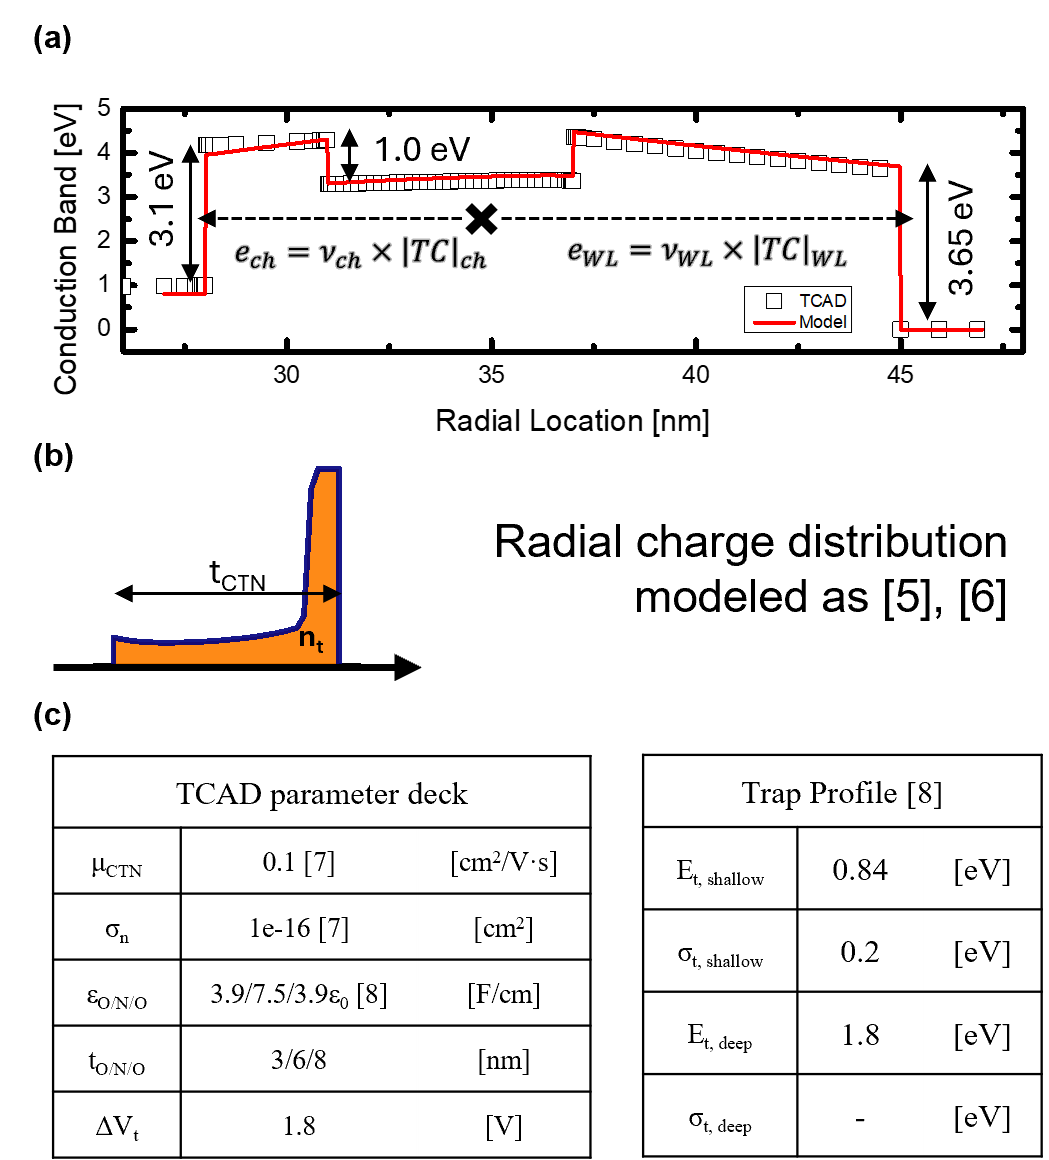
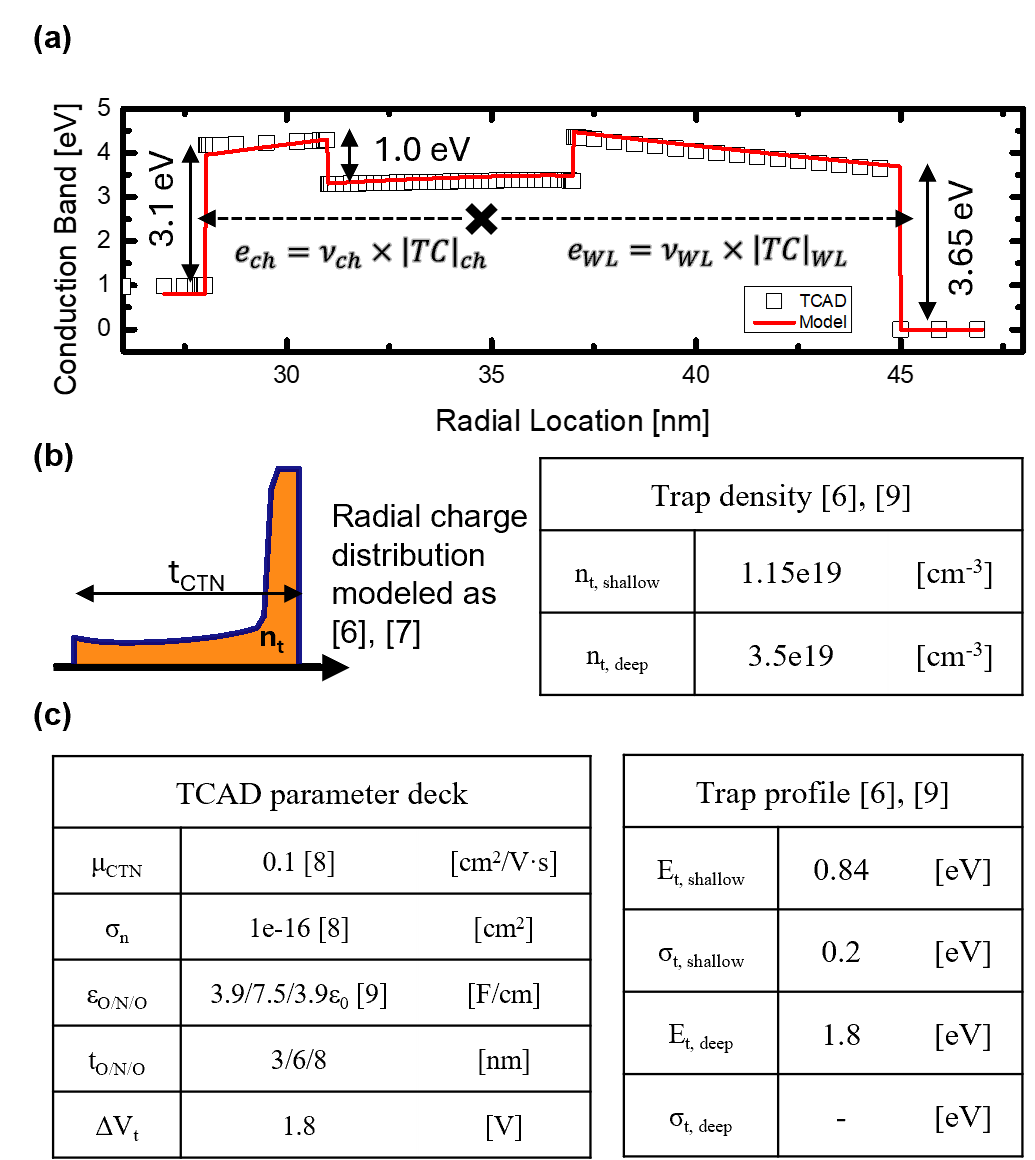
line number need to be added, commit before jump off

diff --git a/generic-color.tex b/generic-color.tex
@@ -18,14 +18,14 @@
 \def\BibTeX{{\rm B\kern-.05em{\sc i\kern-.025em b}\kern-.08em
     T\kern-.1667em\lower.7ex\hbox{E}\kern-.125emX}}
 \markboth{\journalname, VOL. XX, NO. XX, XXXX 20XX}
-{Author \MakeLowercase{\textit{et al.}}: Preparation of Papers for IEEE TRANSACTIONS and JOURNALS (February 2017)}
+{Jin \MakeLowercase{\textit{et al.}}: Time-Step-Free Physics-Based Modeling of Retention Loss in Cryogenic 3-D NAND Flash}
 \begin{document}
 \IEEEaftertitletext{\vspace{-1cm}} % 제목 밑 공간
-\title{Time-step-free Physics-Based Modeling of Retention Loss in Cryogenic 3-D NAND Flash}\author{Myung Jin, Haechan Choi, and Hyungcheol Shin, \IEEEmembership{Senior Member, IEEE}
+\title{Time-Step-Free Physics-Based Modeling of Retention Loss in Cryogenic 3-D NAND Flash}\author{Myung Jin, Haechan Choi, and Hyungcheol Shin, \IEEEmembership{Senior Member, IEEE}
 \thanks{This paragraph of the first footnote will contain the date on 
 which you submitted your paper for review. (\textit{Corresponding Author: Myung Jin; Hyungcheol Shin.}) }
 \thanks{Myung Jin and Haechan Choi are with the Department of Electrical and Computer Engineering, Seoul National University, Seoul 08826, South Korea (e-mail: [email redacted]).}
-\thanks{Hyungcheol Shin is with the Department of Electrical and Computer Engineering, Seoul National University, Seoul 08826, South Korea, and also with Integra Semiconductor, Ltd. (e-mail: [email redacted]).}}
+\thanks{Hyungcheol Shin is with the Department of Electrical and Computer Engineering, Seoul National University, Seoul 08826, South Korea, and also with Integra Semiconductor, Ltd., Seoul 06970, South Korea (e-mail: [email redacted]).}}
 
 \maketitle
 % \vspace{-1cm}
@@ -48,7 +48,7 @@ time-step-free modeling, autonomous ODE, detrapping, 3-D NAND flash memory, rete
 \IEEEPARstart{T}{he} rapid increase in data storage demand, driven by emerging computing technologies such as artificial intelligence (AI) and high-performance computing (HPC), has raised significant concerns about the reliability of 3-D NAND flash memories, particularly regarding retention loss~\cite{agoda}.
 
 As storage capacity per cell increases, ensuring long-term stability of each bit’s threshold voltage distribution over time scales from days to years becomes increasingly critical.
-Moreover, prior works have shown that trapped charge detrapping can still occur at cryogenic temperatures~\cite{Refaldi.IRPS2025}, supporting models that treat detrapping as largely temperature independent~\cite{Jin.TED2025}.
+Moreover, prior works have shown that trapped charge detrapping can still occur at cryogenic temperatures~\cite{Refaldi.IRPS2025,Refaldi.EDL2024}, supporting models that treat detrapping as temperature independent~\cite{Jin.TED2025}.
 
 In this study, a time-step-free physics-based model is developed for retention loss based on tunneling emission mechanisms in 3-D NAND flash memory.
 The proposed simulation framework uses the initially programmed trapped charge distribution as input and enables highly efficient computation by using closed-form solution of the autonomous detrapping equation, eliminating sequential transient time stepping.
@@ -171,8 +171,8 @@ The threshold voltage difference can be calculated with single determinant compu
     \centering
     \includegraphics[width=\columnwidth]{fig2.png}
     \caption{(a) The band diagram with barrier notations where detrapping of trapped electron occurs,
-    (b) a detail programmed trapped charge distribution after program operation~\cite{C.Lee.JJAP2026, H.Choi.TED2024}, 
-    and (c) TCAD parameter deck and used trap profile within the simulation~\cite{Jin.TED2025,Jo.TED2025,Verreck.IEDM}.}
+    (b) a detail programmed trapped charge distribution after program operation, 
+    and (c) TCAD parameter deck and used trap profile within the simulation~\cite{C.Lee.JJAP2026, H.Choi.TED2024, Han.TED2026,Verreck.IEDM}.}
     \label{fig2}
 \end{figure}
 
@@ -217,29 +217,8 @@ Therefore, for a fixed spatial/energy discretization and a fixed number of evalu
     \label{fig3}
 \end{figure}
 
-According to \cite{Refaldi.IRPS2025}, cryogenic conditions enable the detrapping component to be isolated from retention loss.
-However, direct TCAD simulation at cryogenic temperature below 4.2~K condition did not converge reliably in our setup.
-Therefore, to emulate cryogenic conditions during retention operation within the TCAD framework, the capture cross section was adjusted to an extremely low value ($\sigma_\mathrm{n} \rightarrow 0$) only during retention. 
-This manipulation suppresses thermal electron transitions between trapped and conduction states within the CTN layer, while maintaining physical consistency in other mechanisms~\cite{TCADmanual.2022}.
-
-The TCAD deck shown in Fig.~\ref{fig2}(c) was calibrated by matching the retention time scale of the measurement in previous study~\cite{Refaldi.IRPS2025}.
-Since $\Delta V_\text{th}$ is reported in arbitrary units, the calibration was done by matching time scale only.
-Program operation was performed by single $1~\mu s$ pulse and calibrated to obtain $\Delta V_\text{th} = 1.8~V$.
-
-To properly focus on the detrapping effect from the CTN layer, bandgap-engineered processes were neglected and program operation was perfomed with fresh cell.
-Lateral migration retention loss was ignored by selecting neighboring data pattern~\cite{Chou.IEDM2023}.
-
-The model validation is performed using Synopsys TCAD simulations calibrated against previous retention modeling studies~\cite{Jo.TED2025, Jin.TED2025}. 
-In the model calculation, the trap energy was divided into 100 bins, and the CTN layer was discretized into 30 slices.
-The variation of the $t_{ox}$ showed the most dominancy in detrapping time transient curve.
-In Fig.~\ref{fig3}(b), $t_{ox}$ from 3~nm to 5~nm for both TCAD simulation and the model were perfomed, showing good match with each other.
-
-Table~\ref{MethodComparisons} shows the comparison between TCAD and the model.
-The table shows how much computation time and resource efficiency could be improved through the time-step-free model.
-Since the model's computation time is independent from sequential time step, can be adopted to both short- and long-term retention operation based on given physical time.
-
 \begin{table}[t]
-\caption{Comparison between a TCAD and the autonomous model}
+\caption{Comparison between a TCAD and time-step-free model}
 \label{MethodComparisons}
 \centering
 \begin{tabular}{lcc}
@@ -248,39 +227,62 @@ Property & TCAD & Time-step-free model\\
 \midrule
 \shortstack[l]{Temporal treatment\\{}} & \shortstack[l]{sequential time stepping\\{}} & \shortstack[l]{closed-form evaluation\\of eq (\ref{autonomousSoluation})}\\
 \shortstack[l]{Dependence on\\final physical time\\{}} & {\shortstack[l]{Runtime increases with\\the final retention time\\{}}}& \shortstack[l]{Runtime independent of\\final physical time} \\
-\shortstack[l]{Run Time (s)\\(average of Fig.~\ref{fig3}(b))} & \shortstack[l]{27483\\{}} & \shortstack[l]{3.926\\{}} \\
+\shortstack[l]{Run Time (s)\\(average of Fig.~\ref{fig3}(b))} & \shortstack[l]{$>$25000\\{}} & \shortstack[l]{$<$4\\{}} \\
 \bottomrule
 \end{tabular}
 \end{table}
 
 
+According to \cite{Refaldi.IRPS2025}, cryogenic conditions enable the detrapping component to be isolated from retention loss.
+However, direct TCAD simulation at cryogenic temperature about 4.2~K condition did not converge reliably in our setup.
+Therefore, to emulate cryogenic conditions during retention operation within the TCAD framework, the capture cross section was adjusted to an extremely low value ($\sigma_\mathrm{n} \rightarrow 0$) only during retention. 
+This manipulation suppresses thermal electron transitions between trapped and conduction states within the CTN layer, while maintaining physical consistency in other mechanisms~\cite{TCADmanual.2022}.
+
+The TCAD deck shown in Fig.~\ref{fig2}(c) was calibrated by matching the retention time scale of the measurement in previous study~\cite{Refaldi.IRPS2025}.
+Since $\Delta V_\text{th}$ is reported in arbitrary units, the calibration was done by matching time scale only.
+Program operation was performed by single $1~\mu s$ pulse and calibrated to obtain $\Delta V_\text{th} = 1.8$~V.
+To properly focus on the detrapping effect from the CTN layer, bandgap-engineered processes were neglected and program operation was performed with fresh cell.
+% Lateral migration retention loss was ignored by selecting neighboring data pattern~\cite{Chou.IEDM2023}.
+
+The model validation is performed using Synopsys TCAD simulations calibrated against previous retention modeling studies~\cite{Han.TED2026, Jin.TED2025}. 
+In the model calculation, the trap energy was divided into 100 bins, and the CTN layer was discretized into 30 slices.
+The variation of the $t_\text{TOX}$ showed the most dominancy in detrapping time transient curve.
+In Fig.~\ref{fig3}(b), $t_\text{TOX}$ from 3~nm to 5~nm for both TCAD simulation and the model were perfomed, showing good match with each other.
+
+Table~\ref{MethodComparisons} shows the comparison between TCAD and the model.
+The table shows how much computation time and resource efficiency could be improved through the time-step-free model.
+Since the model's computation time is independent from sequential time step, can be adopted to both short- and long-term retention operation based on given physical time.
 
 \section{Conclusion}
 This study presents a time-step-free physics-based modeling for retention loss due to detrapping of trapped electrons. 
-the novelty of time-step-free modeling is demonstrated through significant computational optimization, achieving runtime independent of final physical time.
+The novelty of time-step-free modeling is demonstrated through significant computational optimization, achieving runtime independent of final physical time.
 Additionally, compared to TCAD simulations calibrated with physical parameters from various prior studies including cryogenic condition, the proposed model demonstrates good match with TCAD simulation within extremely short timeframe. 
+
+
 
 \begin{thebibliography}{00}
 
-\bibitem{agoda} A. Goda, K. K. Muchherla, and P. Feeley, "Reliability of 3D NAND Flash for Future Storage Systems (Invited)," 2023 IEEE International Reliability Physics Symposium (IRPS), Monterey, CA, USA, 2023, pp. 1-10, doi: 10.1109/IRPS48203.2023.10118280.
+\bibitem{agoda} A. Goda, K. K. Muchherla, and P. Feeley, "Reliability of 3D NAND Flash for Future Storage Systems (Invited)," 2023 IEEE International Reliability Physics Symposium (IRPS), Monterey, CA, USA, 2023, pp. 1-10, doi: \href{https://doi.org/10.1109/IRPS48203.2023.10118280}{10.1109/IRPS48203.2023.10118280}.
 
-\bibitem{Refaldi.IRPS2025} D. G. Refaldi, G. Malavena, L. Chiavarone, N. Gagliazzi, A. S. Spinelli, and C. M. Compagnoni, "Cryogenic Investigation of Vertical Charge Loss in 3D NAND Flash Memories," 2025 IEEE International Reliability Physics Symposium (IRPS), Monterey, CA, USA, 2025, pp. 1-7, doi: 10.1109/IRPS48204.2025.10983672.
+\bibitem{Refaldi.IRPS2025} D. G. Refaldi, G. Malavena, L. Chiavarone, N. Gagliazzi, A. S. Spinelli, and C. M. Compagnoni, "Cryogenic Investigation of Vertical Charge Loss in 3D NAND Flash Memories," 2025 IEEE International Reliability Physics Symposium (IRPS), Monterey, CA, USA, 2025, pp. 1-7, doi: \href{https://doi.org/10.1109/IRPS48204.2025.10983672}{10.1109/IRPS48204.2025.10983672}.
 
-\bibitem{Jin.TED2025} M. Jin and H. Shin, "Modeling Attempt-to-Escape Frequency: Tunneling Emission of Trapped Electrons in Tunneling Oxides of 3-D NAND Flash Memory," in IEEE Transactions on Electron Devices, vol. 72, no. 9, pp. 4884-4889, Sept. 2025, doi: 10.1109/TED.2025.3589340.
+\bibitem{Refaldi.EDL2024} D. G. Refaldi, G. Malavena, L. Chiavarone, A. S. Spinelli, and C. M. Compagnoni, "Evidence of Widely Distributed Time Constants in the Vertical Charge Loss of 3-D Charge-Trap NAND Flash Memories," in IEEE Electron Device Letters, vol. 45, no. 10, pp. 1811-1814, Oct. 2024, doi: \href{https://doi.org/10.1109/LED.2024.3435345}{10.1109/LED.2024.3435345}.
 
-\bibitem{Amoroso.TED} S. M. Amoroso, C. Monzio Compagnoni, A. Mauri, A. Maconi, A. S. Spinelli, and A. L. Lacaita, "Semi-Analytical Model for the Transient Operation of Gate-All-Around Charge-Trap Memories," in IEEE Transactions on Electron Devices, vol. 58, no. 9, pp. 3116-3123, Sept. 2011, doi: 10.1109/TED.2011.2159010.
+\bibitem{Jin.TED2025} M. Jin and H. Shin, "Modeling Attempt-to-Escape Frequency: Tunneling Emission of Trapped Electrons in Tunneling Oxides of 3-D NAND Flash Memory," in IEEE Transactions on Electron Devices, vol. 72, no. 9, pp. 4884-4889, Sept. 2025, doi: \href{https://doi.org/10.1109/TED.2025.3589340}{10.1109/TED.2025.3589340}.
 
-\bibitem{C.Lee.JJAP2026} C. Lee and H. Shin, "Investigation and modeling of vertical redistribution in charge-trap-based 3D NAND Flash memory." Japanese Journal of Applied Physics 65.1 (2026): 011004, doi: 10.35848/1347-4065/ae3161
+\bibitem{Amoroso.TED} S. M. Amoroso, C. Monzio Compagnoni, A. Mauri, A. Maconi, A. S. Spinelli, and A. L. Lacaita, "Semi-Analytical Model for the Transient Operation of Gate-All-Around Charge-Trap Memories," in IEEE Transactions on Electron Devices, vol. 58, no. 9, pp. 3116-3123, Sept. 2011, doi: \href{https://doi.org/10.1109/TED.2011.2159010}{10.1109/TED.2011.2159010}.
 
-\bibitem{H.Choi.TED2024} H. Choi, J. Yoo, and H. Shin, "A New Physical Model for Program Transients of Cylindrical Charge-Trap-Based NAND Flash Memories," in IEEE Transactions on Electron Devices, vol. 71, no. 4, pp. 2386-2392, April 2024, doi: 10.1109/TED.2024.3364587.
+\bibitem{C.Lee.JJAP2026} C. Lee and H. Shin, "Investigation and modeling of vertical redistribution in charge-trap-based 3D NAND Flash memory." Japanese Journal of Applied Physics 65.1 (2026): 011004, doi: \href{https://doi.org/10.35848/1347-4065/ae3161}{10.35848/1347-4065/ae3161}
 
-\bibitem{Verreck.IEDM} D. Verreck, A. Arreghini, F.Schanovsky, G. Rzepa, Z. Stanojevic, F. Mitterbauer, C. Kernstrock, O. Baumgartner, M. Karner, G. Van den bosch, and M. Rosmeulen, "Understanding the ISPP Slope in Charge Trap Flash Memory and its Impact on 3-D NAND Scaling," 2021 IEEE International Electron Devices Meeting (IEDM), San Francisco, CA, USA, 2021, pp. 1-4, doi: 10.1109/IEDM19574.2021.9720506.
+\bibitem{H.Choi.TED2024} H. Choi, J. Yoo, and H. Shin, "A New Physical Model for Program Transients of Cylindrical Charge-Trap-Based NAND Flash Memories," in IEEE Transactions on Electron Devices, vol. 71, no. 4, pp. 2386-2392, April 2024, doi: \href{https://doi.org/10.1109/TED.2024.3364587}{10.1109/TED.2024.3364587}.
 
-\bibitem{Jo.TED2025} I. Han and H. Shin, "Machine Learning-Based Investigation of Temperature Effects on Lateral Migration in 3-D nand Flash Memory," in IEEE Transactions on Electron Devices, vol. 73, no. 5, pp. 2747-2753, May 2026, doi: 10.1109/TED.2026.3673641.
+\bibitem{Verreck.IEDM} D. Verreck, A. Arreghini, F.Schanovsky, G. Rzepa, Z. Stanojevic, F. Mitterbauer, C. Kernstrock, O. Baumgartner, M. Karner, G. Van den bosch, and M. Rosmeulen, "Understanding the ISPP Slope in Charge Trap Flash Memory and its Impact on 3-D NAND Scaling," 2021 IEEE International Electron Devices Meeting (IEDM), San Francisco, CA, USA, 2021, pp. 1-4, doi: \href{https://doi.org/10.1109/IEDM19574.2021.9720506}{10.1109/IEDM19574.2021.9720506}.
+
+\bibitem{Han.TED2026} I. Han and H. Shin, "Machine Learning-Based Investigation of Temperature Effects on Lateral Migration in 3-D nand Flash Memory," in IEEE Transactions on Electron Devices, vol. 73, no. 5, pp. 2747-2753, May 2026, doi: \href{https://doi.org/10.1109/TED.2026.3673641}{10.1109/TED.2026.3673641}.
 
 \bibitem{TCADmanual.2022} TCAD Sentaurus Device User Guide Version 2022, Synopsys, Mountain View, CA, USA, Mar. 2022.
 
-\bibitem{Chou.IEDM2023} Y. L. Chou, C. C. Lu, W. J. Tsai, T. C. Lu, K. C. Chen, and C. Y. Lu, "A Target-Read Retry Scheme for 3D Charge Trap NAND Flash Memory," 2023 International Electron Devices Meeting (IEDM), San Francisco, CA, USA, 2023, pp. 1-4, doi: 10.1109/IEDM45741.2023.10413738.
+% \bibitem{Chou.IEDM2023} Y. L. Chou, C. C. Lu, W. J. Tsai, T. C. Lu, K. C. Chen, and C. Y. Lu, "A Target-Read Retry Scheme for 3D Charge Trap NAND Flash Memory," 2023 International Electron Devices Meeting (IEDM), San Francisco, CA, USA, 2023, pp. 1-4, doi: \href{https://doi.org/10.1109/IEDM45741.2023.10413738}{10.1109/IEDM45741.2023.10413738}.
 
 
 \end{thebibliography}